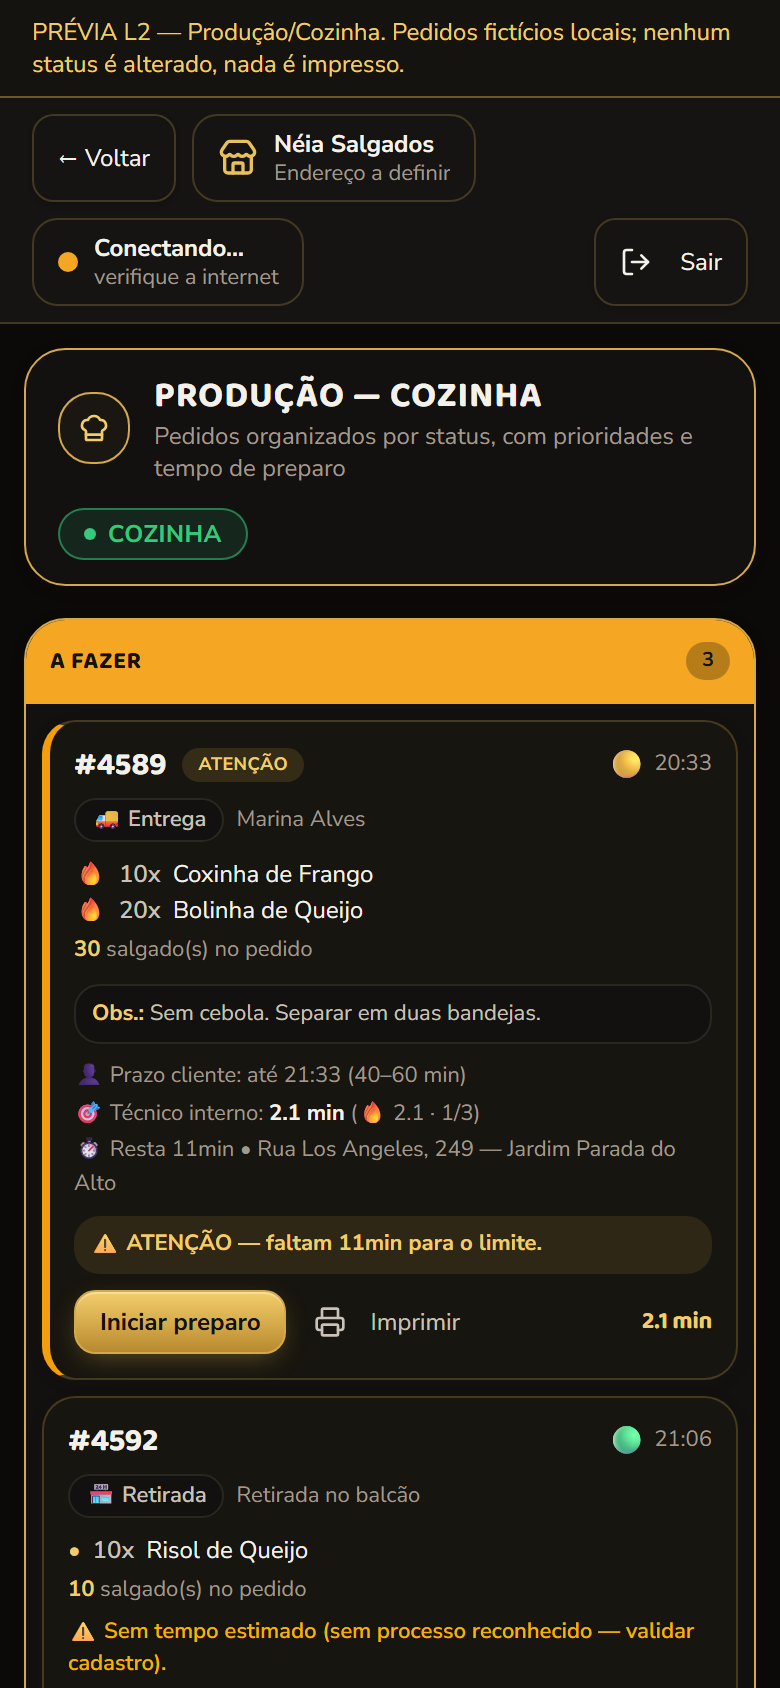
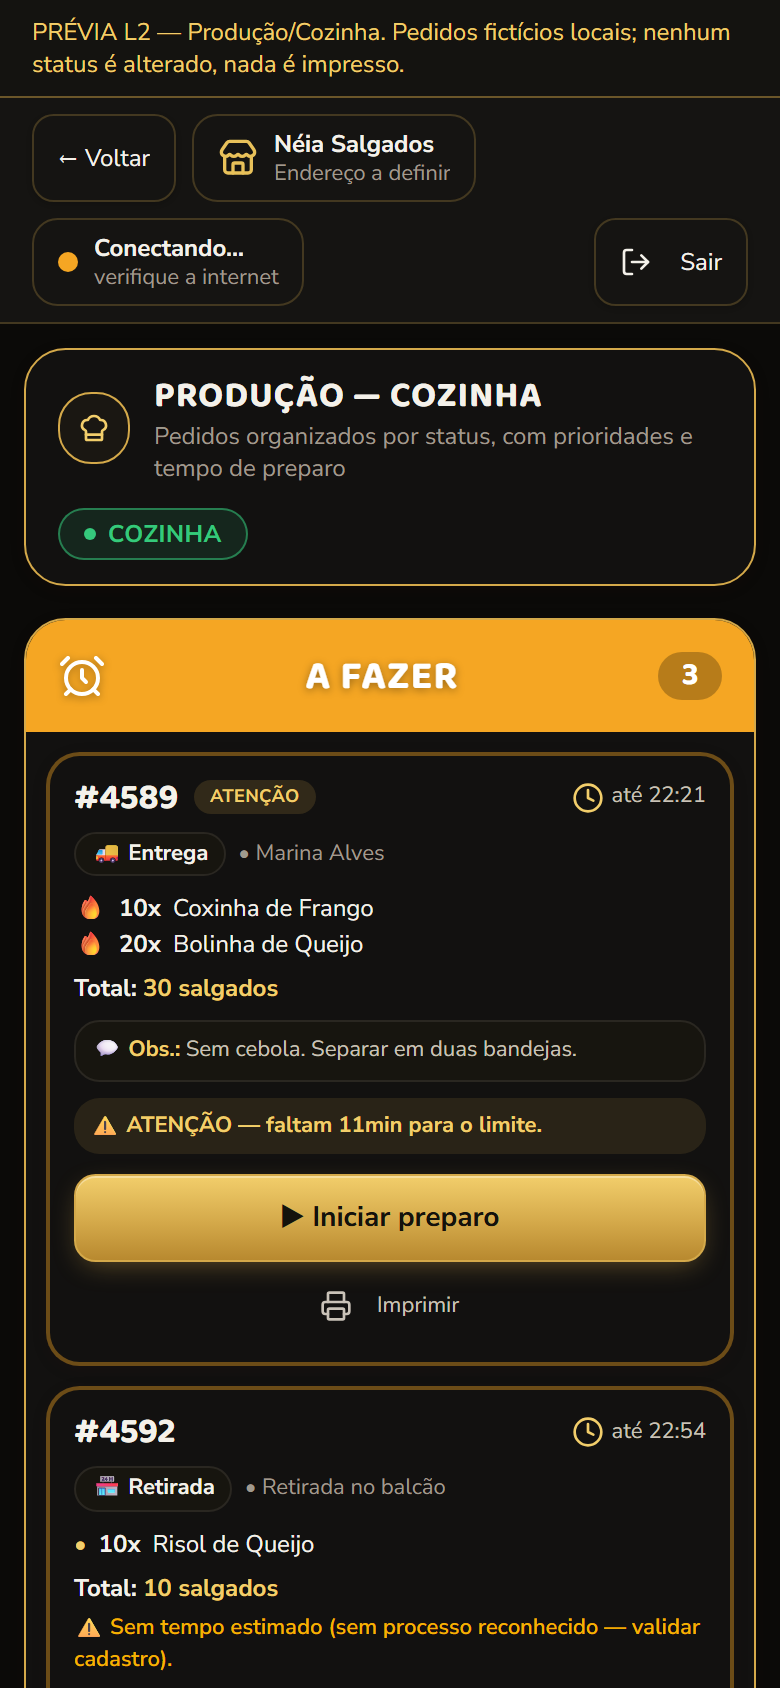
docs: relatorio do ajuste visual da Producao (cabecalhos, cards, botoes e menu unico)

Changed region(s): [[0.0308, 0.3697, 0.9846, 1.0], [0.8, 0.955, 0.8923, 0.9858]]

diff --git a/docs/homologacao/RELATORIO-PRODUCAO-REFERENCIA.md b/docs/homologacao/RELATORIO-PRODUCAO-REFERENCIA.md
@@ -1,6 +1,6 @@
-# RELATÓRIO — Etapa Produção / Cozinha (réplica visual preto/dourado)
+# RELATÓRIO — Ajuste visual da Produção (referência aprovada)
 
-Data: 2026-11-12 · Branch: `homologacao-finalizacao` · SHA: `dd979a3`
+Data: 2026-11-12 · Branch: `homologacao-finalizacao` · SHA do código: `89e3004`
 
 ---
 
@@ -8,86 +8,100 @@ Data: 2026-11-12 · Branch: `homologacao-finalizacao` · SHA: `dd979a3`
 
 | Item | Valor |
 |---|---|
-| **URL** | `https://erp-neia-salgados-ml864136x-luiz988061337-3147s-projects.vercel.app` |
-| **ID do deploy** | `dpl_8QGjqk4nu35D9yHwSL2RjKkSsNpL` |
+| **URL** | `https://erp-neia-salgados-eexsxwf7v-luiz988061337-3147s-projects.vercel.app` |
+| **ID do deploy** | `dpl_6nUWUMg5btSie3vCWF1EEw4mHZWP` |
 | **Target** | `preview` — **NÃO é Production** |
-| **SHA do deploy = SHA local** | ✅ `dd979a3b78a8c3bf201cd296949377f1d9123618` |
-| Rota de conferência | `/preview-l2-producao` (Preview tem Vercel Authentication → entre na Vercel) |
+| **SHA do deploy = SHA local** | ✅ `89e30047f21220a75a603466364e24a9db6efb82` |
+| Rota de conferência | `/preview-l2-producao` (Preview com Vercel Authentication → entre na Vercel) |
 | **Production intacta** | ✅ `dpl_DK144zp5kG9FSsL4J5HdniQ34Ukk` · `main` @ `366074f` |
 
 ---
 
-## 2. Alterações visuais realizadas
+## 2. Ajustes visuais (conforme a referência aprovada)
 
-### Estrutura (referência "PRODUÇÃO – COZINHA")
+### Cabeçalhos das três colunas
 
-| Elemento | Antes | Agora |
+| Item | Antes | Agora |
 |---|---|---|
-| Menu lateral | tela solta, sem shell | **shell do Dashboard** (sidebar compacta, coroa, "Produção" em pílula dourada na rota `/producao`, usuário no rodapé) |
-| Cabeçalho do módulo | banner "Despache (Produção)" com foto | **"PRODUÇÃO — COZINHA"** + subtítulo "Pedidos organizados por status, com prioridades e tempo de preparo" + selo verde **COZINHA** + "Em operação" |
-| Hierarquia | Kanban no fim, depois de ~8 blocos | **Kanban é o conteúdo principal**, logo abaixo do cabeçalho; todo o resto foi para a seção recolhível **"Operação em detalhes"** (totais do dia, donut, consolidados, listas, filtros) |
-| Colunas | cabeçalho translúcido com borda inferior | **barra colorida sólida** com contador: **A FAZER (laranja)**, **EM PREPARO (azul)**, **PRONTO (verde)** |
-| Card do pedido | branco, bloco único, badge de status textual | card **escuro** com borda dourada e barra lateral por nível de prioridade; **nº do pedido**, badge de prioridade (Urgente/Atenção/Atraso/Risco), chip de modalidade (**Entrega**/**Retirada**), cliente, **produtos com quantidades**, **total de salgados**, **observações**, prazo do cliente, tempo técnico, alertas coloridos, ações e **tempo estimado no canto inferior direito** |
-| Ações | botões padrão | **Iniciar preparo** / **Marcar como pronto** / **Chamar motoboy** em dourado, **Imprimir** discreto |
+| Título | à esquerda, `text-xs` | **centralizado**, `font-display text-xl uppercase bold`, com sombra suave |
+| Ícone | ausente | **ícone à esquerda** (⏰ A Fazer / ⚒ EM PREPARO / ✅ PRONTO) |
+| Contador | pílula pequena à direita | **badge destacado** (quadrado escuro, `font-display text-base`) à direita |
+| Fundo | cor sólida | cor sólida preservada: **laranja / azul / verde** |
+| Altura | 42px | 56px |
 
-### Correções de exibição (sem alterar regra de negócio)
+### Cards
 
-1. **Coluna "Pronto" sempre vazia** — "pronto" é filtrado da fila (`incluirProntos` desligado) e, como o toggle vivia dentro da seção recolhida, a coluna nunca mostrava nada. Agora a coluna lista os pedidos prontos do dia (`pedidosDoDia`); a fila de preparo e a consolidação continuam usando o mesmo filtro.
-2. **Pedido duplicado em "A Fazer"** — a lista de prioridade é subconjunto da fila e era concatenada antes dela. Agora a coluna usa a união sem repetição, mantendo a prioridade no topo.
+| Item | Agora |
+|---|---|
+| Topo | `#número` + badge de prioridade + **"🕐 até HH:MM"** (ou **"✅ Finalizado HH:MM"** na coluna Pronto, via `pronto_em`) |
+| Modalidade | chip **"🚚 Entrega"** / **"🏪 Retirada"** + cliente |
+| Produtos | emoji de processo + quantidade em destaque + nome |
+| Total | **"Total: N salgados"** (rótulo branco, número dourado) |
+| Observações | caixa "💬 Obs.: …" |
+| Avisos | faixa "⚠ ATENÇÃO — faltam X min para o limite." / "Não reconhecido" |
+| Botões | **"▶ Iniciar preparo"** (dourado, largura total) · **"✓ Finalizar"** (azul, largura total) · **"🔔 Avisar caixa"** (dourado, entrega) · **"🏪 Liberar retirada"** (verde, retirada) · "Imprimir" (secundário, preservado) |
+| Borda do card | na cor da coluna (laranja / azul / verde) |
+| Tempos técnicos internos | **ocultos** (decisão do proprietário) |
 
-### Preservado integralmente
+### Menu lateral
 
-Agendamentos e prioridades, controle de combos/quantidades, confirmação de preparo, impressão de comandas (Tanca), integração com pedidos, integração com a Central de Entregas, regras de tempo técnico/fritadeiras/pastéis/assados, retirada física do freezer, cálculo de atraso, fila de impressão e toda a lógica de status.
+**Nenhum menu novo.** A Produção usa o mesmo `AdminShell` aprovado no Dashboard e no PDV — mesma largura, logotipo, ordem, ícones, cores, bordas, espaçamento, rodapé e navegação. Apenas **"Produção"** fica em pílula dourada quando a tela está aberta (por rota real `/producao`; na rota de conferência, pela aba informada).
 
-### Modo conferência (sem escrita)
+### Correção de exibição
 
-`/preview-l2-producao` renderiza o painel real com **pedidos fictícios locais**; `mudarStatus`, `imprimirDireto` e as reservas ficam bloqueados nesse modo (aviso no toast). Nenhum pedido é criado ou alterado no backend.
+Cada pedido passa a ficar em **uma única coluna** — "A Fazer" não repete pedidos que já estão em preparo (antes o mesmo pedido aparecia nas duas, com aviso de chave duplicada).
 
 ---
 
-## 3. Testes
+## 3. Regras de negócio preservadas
+
+Agendamentos e prioridades, controle de combos/quantidades, confirmação de preparo, impressão de comandas, integração com pedidos, integração com a Central de Entregas, retirada física do freezer, cálculo de atraso e todos os status.
+
+**"Avisar caixa" e "Liberar retirada" executam exatamente a mesma transição real já existente** (pedido pronto → `aguardando_motoboy`, com notificação push/WhatsApp, histórico de status e cupom) — só o rótulo e a cor mudam conforme a modalidade.
+
+---
+
+## 4. Testes
 
 | Teste | Resultado |
 |---|---|
 | `npm run typecheck` | ✅ sem erros |
-| `npm run build` | ✅ client 22,0s · ssr 18,3s · nitro 6,0s |
+| `npm run build` | ✅ client 25,4s · ssr 18,2s · nitro 6,1s |
 | `npm run teste:guard` | ✅ 41/41 |
 | `git diff --check` | ✅ sem erros de whitespace |
-| ESLint (`producao.tsx` + nova rota) | 58 problemas (todos `no-explicit-any` já existentes) — **antes eram 102** no mesmo arquivo |
+| ESLint | 59 problemas (56 `no-explicit-any` já existentes no arquivo) |
 | Visual desktop | ✅ `producao-PREVIEW-desktop.png` (do Preview hospedado) |
 | Visual mobile | ✅ `producao-PREVIEW-celular.png` (390×844) |
-| Operações com escrita | ✅ nenhuma — fixtures locais; sem status, impressão, reserva, pedido ou migração |
+| Operações com escrita | ✅ nenhuma — conferência usa fixtures locais; status, impressão e reservas bloqueados |
 
 ---
 
-## 4. Arquivos alterados
+## 5. Arquivos alterados
 
 | Arquivo | Alteração |
 |---|---|
-| `src/routes/producao.tsx` | Reforma visual (shell, cabeçalho, Kanban como conteúdo principal, card na anatomia da referência); correções de exibição (coluna Pronto e duplicidade); `Producao` exportado com props opcionais de conferência (`preview`, `pedidosInjetados`) e guardas de escrita |
-| `src/components/admin/erp-ui.tsx` | `KanbanColumn` com cabeçalho em barra colorida sólida + contador (usado só pela Produção) |
-| `src/routes/preview-l2-producao.tsx` | Rota de conferência com pedidos fictícios (novo) |
-| `scripts/captura-producao.mjs`, `reorganizar-producao.mjs` | Capturas e reestruturação (novos) |
-| `src/components/admin/dashboard-admin.tsx`, `erp-ui.tsx` (demais) | apenas reformatação do prettier |
+| `src/components/admin/erp-ui.tsx` | `KanbanColumn`: cabeçalho com ícone, título centralizado em fonte grande e contador em destaque (prop `icone`) |
+| `src/routes/producao.tsx` | Card no padrão da referência; tempos técnicos ocultos; botões por modalidade; colunas com ícone; uma coluna por pedido; `modoPreview` no shell |
+| `src/components/admin/admin-shell.tsx` | Destaque do item ativo também pela aba informada no modo conferência (sem alterar o menu) |
+| `src/routes/preview-l2-producao.tsx` | Fixtures com `pronto_em` para exibir "Finalizado HH:MM" |
+| `scripts/ajustar-card-producao.mjs`, `ajustar-fixtures-producao.mjs` | Scripts de ajuste (novos) |
 
 ---
 
-## 5. Preservação do Dashboard e do PDV
+## 6. Preservação do Dashboard e do PDV
 
-- **Dashboard** ✅ — layout aprovado intacto; captura do mesmo deploy em `docs/erp-dark/prints/gestao-PREVIEW-desktop.png`
-- **PDV** ✅ — layout aprovado intacto; captura do mesmo deploy em `docs/erp-dark/prints/pdv-PREVIEW-desktop.png`
-- **Production** ✅ — inalterada (`dpl_DK144zp5kG9FSsL4J5HdniQ34Ukk` / `main` @ `366074f`)
+- **Dashboard** ✅ intacto — `docs/erp-dark/prints/gestao-PREVIEW-desktop.png`
+- **PDV** ✅ intacto — `docs/erp-dark/prints/pdv-PREVIEW-desktop.png`
+- **Production** ✅ inalterada (`dpl_DK144zp5kG9FSsL4J5HdniQ34Ukk` / `main` @ `366074f`)
 
 ---
 
-## 6. Capturas
+## 7. Capturas
 
 | Arquivo | Conteúdo |
 |---|---|
 | `docs/erp-dark/prints/producao-PREVIEW-desktop.png` | Produção desktop **do Preview hospedado** |
 | `docs/erp-dark/prints/producao-PREVIEW-celular.png` | Produção mobile (390×844) |
-| `docs/erp-dark/prints/producao-DEPOIS.png` / `-celular.png` | Mesma tela com a comanda completa |
-| `docs/erp-dark/prints/gestao-PREVIEW-desktop.png` | Dashboard no mesmo deploy (aprovado, inalterado) |
-| `docs/erp-dark/prints/pdv-PREVIEW-desktop.png` | PDV no mesmo deploy (aprovado, inalterado) |
+| `docs/erp-dark/prints/producao-DEPOIS.png` / `-celular.png` | Mesma tela (render local do mesmo commit) |
 
 **Etapa encerrada. Aguardando aprovação visual da Produção antes de seguir para a Central de Entregas.**
